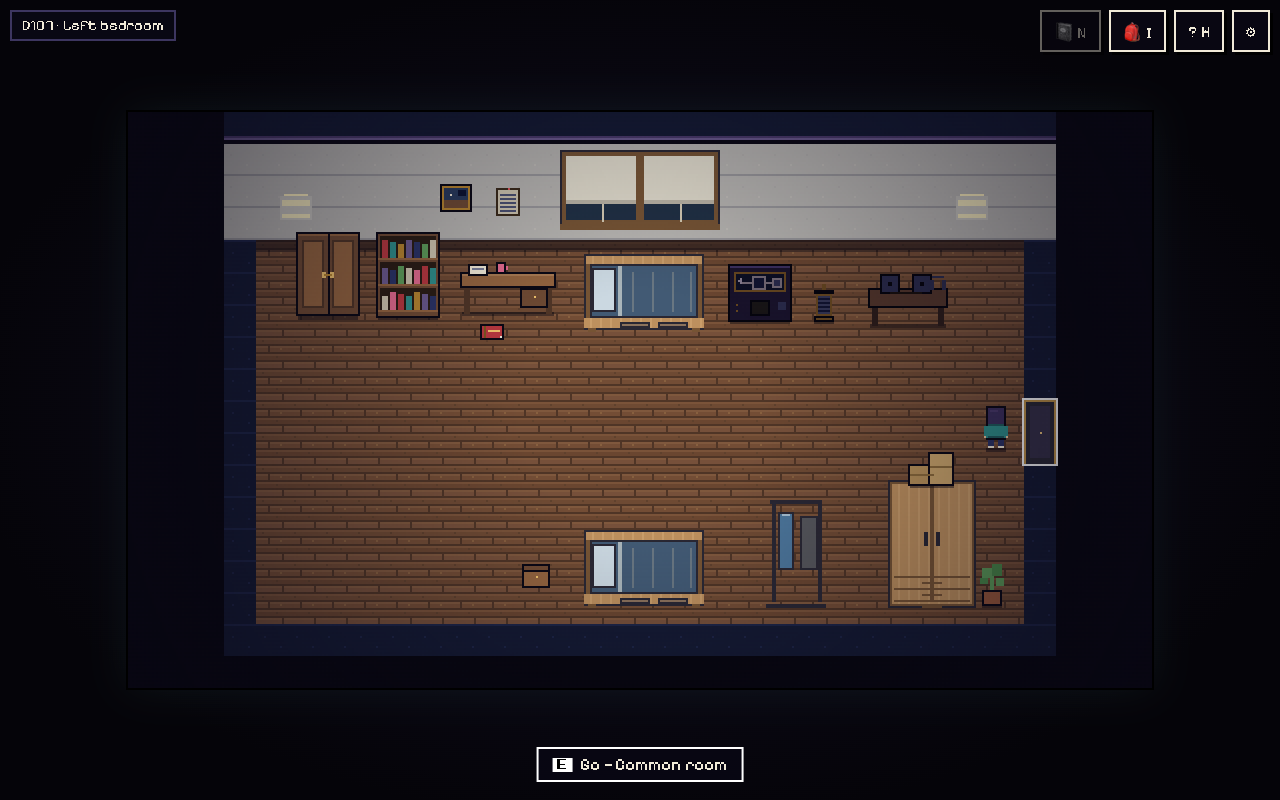
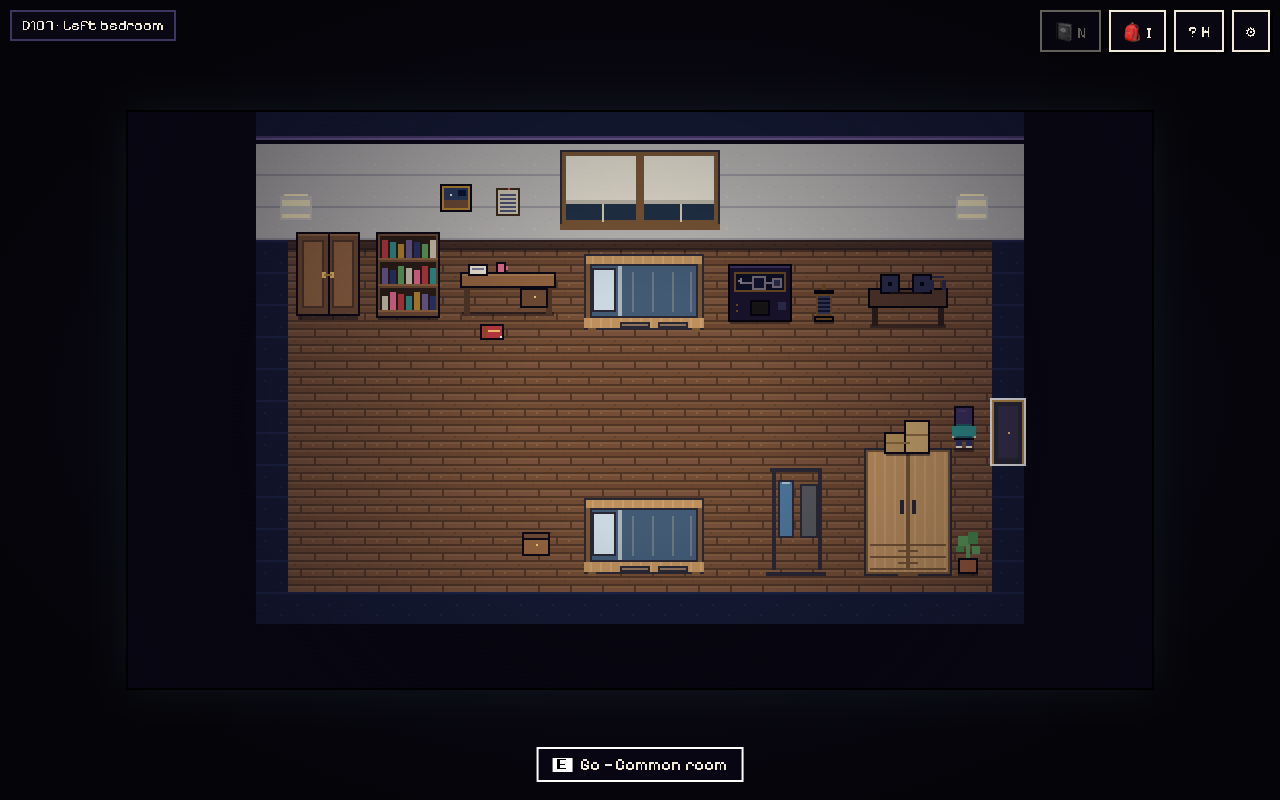
Open up common room and arrange inward-facing lounge seating

Changed region(s): [[0.1562, 0.1562, 0.8438, 0.8438]]

diff --git a/schrodingers-home/src/data/roomLayouts.ts b/schrodingers-home/src/data/roomLayouts.ts
@@ -66,65 +66,61 @@ export const ROOMS: Record<RoomId, RoomLayout> = {
     spawns: { start: [256, 236], rewind: [256, 236], fromCommon: [256, 72], center: [256, 180] },
   },
   common: {
-    id: 'common', name: 'D107 · Common room', floor: 'tile.floor.wood', floorRect: [4, 4, 24, 12], darkness: 0.42,
+    id: 'common', name: 'D107 · Common room', floor: 'tile.floor.wood', floorRect: [2, 3, 28, 14], darkness: 0.42,
     rugs: [],
-    gaps: [['top', 394, 426], ['bottom', 240, 272], ['left', 144, 176], ['right', 144, 176]],
+    gaps: [['top', 424, 456], ['bottom', 240, 272], ['left', 144, 176], ['right', 144, 176]],
     objects: [
-      { id: 'dorm.desk.4', asset: 'dorm.desk', x: 404, y: 108, layer: 'y', solid: [64, 12], decor: true },
-      { id: 'dorm.chair.4', asset: 'dorm.chair', x: 404, y: 140, layer: 'y', solid: [20, 8], decor: true },
-      { id: 'dorm.couch.2', asset: 'dorm.couch', x: 284, y: 114, layer: 'y', solid: [48, 14], decor: true },
-      { id: 'dorm.couch.3', asset: 'dorm.couch', x: 198, y: 156, layer: 'y', solid: [48, 14], decor: true },
+      { id: 'dorm.desk.4', asset: 'dorm.desk', x: 432, y: 112, layer: 'y', solid: [64, 18], decor: true },
+      { id: 'dorm.couch.2', asset: 'dorm.couch.faceRight', x: 202, y: 166, layer: 'y', solid: [24, 40], decor: true },
+      { id: 'dorm.couch.3', asset: 'dorm.couch.faceLeft', x: 310, y: 166, layer: 'y', solid: [24, 40], decor: true },
       { id: 'dorm.led', asset: 'dorm.led', x: 256, y: 23, layer: 'wall', decor: true },
-      { id: 'dorm.collage', asset: 'dorm.collage', x: 120, y: 56, layer: 'wall', decor: true },
-      { id: 'dorm.whiteboard', asset: 'dorm.whiteboard', x: 348, y: 58, layer: 'wall', decor: true },
-      { id: 'dorm.dino', asset: 'dorm.dino', x: 364, y: 198, layer: 'y', decor: true, depthBias: 70 },
-      { id: 'dorm.desk.1', asset: 'dorm.desk', x: 108, y: 108, layer: 'y', solid: [64, 12], decor: true },
-      { id: 'dorm.desk.2', asset: 'dorm.desk', x: 108, y: 242, layer: 'y', solid: [64, 12], decor: true },
-      { id: 'dorm.desk.3', asset: 'dorm.desk', x: 404, y: 242, layer: 'y', solid: [64, 12], decor: true },
-      { id: 'dorm.chair.1', asset: 'dorm.chair', x: 108, y: 140, layer: 'y', solid: [20, 8], decor: true },
-      { id: 'dorm.chair.2', asset: 'dorm.chair', x: 108, y: 206, layer: 'y', solid: [20, 8], decor: true },
-      { id: 'dorm.chair.3', asset: 'dorm.chair', x: 404, y: 206, layer: 'y', solid: [20, 8], decor: true },
-      { id: 'door.common.north', x: 410, y: 64, layer: 'wall', hit: [32, 44], reach: 26 },
-      { id: 'door.common.south', x: 256, y: 272, layer: 'wall', hit: [32, 16], reach: 22 },
-      { id: 'door.common.west', x: 56, y: 176, layer: 'wall', hit: [16, 32], reach: 20 },
-      { id: 'door.common.east', x: 456, y: 176, layer: 'wall', hit: [16, 32], reach: 20 },
-      { id: 'window', x: 256, y: 64, layer: 'wall', hit: [120, 38], reach: 34 },
-      { id: 'clock', x: 176, y: 52, layer: 'wall', hit: [18, 18], reach: 34 },
-      { id: 'radiator', x: 256, y: 82, layer: 'y', solid: [32, 10], hit: [32, 20] },
-      { id: 'sink', x: 336, y: 242, layer: 'y', hit: [32, 24], reach: 24 },
-      { id: 'trash', x: 360, y: 128, layer: 'y', solid: [12, 8], hit: [16, 20] },
-      { id: 'deco.fridge', asset: 'deco.fridge', x: 324, y: 110, layer: 'y', solid: [20, 12], decor: true },
-      { id: 'gramophone', x: 256, y: 200, layer: 'y', solid: [28, 14], hit: [30, 30], hitOffsetY: -10 },
-      { id: 'hatch', x: 256, y: 196, layer: 'y', hit: [18, 10], depthBias: 2, reach: 26 },
-      { id: 'lever', x: 286, y: 200, layer: 'y', solid: [6, 6], hit: [10, 20] },
-      { id: 'sleeves', x: 222, y: 200, layer: 'y', solid: [18, 8], hit: [20, 24] },
-      { id: 'couch', x: 228, y: 114, layer: 'y', solid: [48, 14], hit: [48, 28] },
-      { id: 'lamp', x: 182, y: 206, layer: 'y', solid: [14, 8], hit: [16, 28] },
-      { id: 'deco.table', asset: 'dorm.ottoman', x: 256, y: 144, layer: 'y', solid: [32, 8], decor: true },
-      { id: 'deco.armchair', asset: 'dorm.recliner', x: 318, y: 156, layer: 'y', solid: [24, 12], decor: true },
-      { id: 'deco.plant', asset: 'deco.plant', x: 156, y: 110, layer: 'y', solid: [10, 6], decor: true },
+      { id: 'dorm.collage', asset: 'dorm.collage', x: 112, y: 44, layer: 'wall', decor: true },
+      { id: 'dorm.whiteboard', asset: 'dorm.whiteboard', x: 360, y: 44, layer: 'wall', decor: true },
+      { id: 'dorm.dino', asset: 'dorm.dino', x: 370, y: 198, layer: 'y', decor: true, depthBias: 70 },
+      { id: 'dorm.desk.1', asset: 'dorm.desk', x: 80, y: 112, layer: 'y', solid: [64, 18], decor: true },
+      { id: 'dorm.desk.2', asset: 'dorm.desk', x: 80, y: 260, layer: 'y', solid: [64, 18], decor: true },
+      { id: 'dorm.desk.3', asset: 'dorm.desk', x: 432, y: 260, layer: 'y', solid: [64, 18], decor: true },
+      { id: 'door.common.north', x: 440, y: 48, layer: 'wall', hit: [32, 44], reach: 26 },
+      { id: 'door.common.south', x: 256, y: 288, layer: 'wall', hit: [32, 16], reach: 22 },
+      { id: 'door.common.west', x: 24, y: 176, layer: 'wall', hit: [16, 32], reach: 20 },
+      { id: 'door.common.east', x: 488, y: 176, layer: 'wall', hit: [16, 32], reach: 20 },
+      { id: 'window', x: 256, y: 48, layer: 'wall', hit: [120, 38], reach: 34 },
+      { id: 'clock', x: 176, y: 40, layer: 'wall', hit: [18, 18], reach: 34 },
+      { id: 'radiator', x: 256, y: 70, layer: 'y', solid: [32, 10], hit: [32, 20] },
+      { id: 'sink', x: 350, y: 254, layer: 'y', hit: [32, 24], reach: 24 },
+      { id: 'trash', x: 412, y: 152, layer: 'y', solid: [12, 8], hit: [16, 20] },
+      { id: 'deco.fridge', asset: 'deco.fridge', x: 370, y: 110, layer: 'y', solid: [20, 12], decor: true },
+      { id: 'gramophone', x: 256, y: 246, layer: 'y', solid: [28, 14], hit: [30, 30], hitOffsetY: -10 },
+      { id: 'hatch', x: 256, y: 242, layer: 'y', hit: [18, 10], depthBias: 2, reach: 26 },
+      { id: 'lever', x: 286, y: 246, layer: 'y', solid: [6, 6], hit: [10, 20] },
+      { id: 'sleeves', x: 222, y: 246, layer: 'y', solid: [18, 8], hit: [20, 24] },
+      { id: 'couch', x: 256, y: 114, layer: 'y', solid: [48, 14], hit: [48, 28] },
+      { id: 'lamp', x: 166, y: 246, layer: 'y', solid: [14, 8], hit: [16, 28] },
+      { id: 'deco.table', asset: 'dorm.ottoman', x: 256, y: 154, layer: 'y', solid: [32, 8], decor: true },
+      { id: 'deco.armchair', asset: 'dorm.recliner', x: 256, y: 198, layer: 'y', solid: [24, 12], decor: true },
+      { id: 'deco.plant', asset: 'deco.plant', x: 138, y: 108, layer: 'y', solid: [10, 6], decor: true },
     ],
     doors: [
-      { id: 'door.common.north', rect: [394, 40, 32, 18] },
-      { id: 'door.common.south', rect: [240, 260, 32, 14] },
-      { id: 'door.common.west', rect: [48, 144, 12, 32] },
-      { id: 'door.common.east', rect: [448, 144, 12, 32] },
+      { id: 'door.common.north', rect: [424, 24, 32, 18] },
+      { id: 'door.common.south', rect: [240, 276, 32, 14] },
+      { id: 'door.common.west', rect: [16, 144, 12, 32] },
+      { id: 'door.common.east', rect: [480, 144, 12, 32] },
     ],
-    spawns: { fromFoyer: [256, 244], fromLeft: [76, 170], fromRight: [436, 170], fromVault: [436, 84], center: [256, 224] },
+    spawns: { fromFoyer: [256, 264], fromLeft: [48, 170], fromRight: [464, 170], fromVault: [472, 72], center: [256, 218] },
   },
   left: {
-    id: 'left', name: 'D107 · Left bedroom', floor: 'tile.floor.wood', floorRect: [4, 4, 24, 12], darkness: 0.48,
+    id: 'left', name: 'D107 · Left bedroom', floor: 'tile.floor.wood', floorRect: [5, 4, 22, 11], darkness: 0.48,
     rugs: [],
     gaps: [['right', 144, 176]],
     objects: [
       { id: 'dorm.secondBed', asset: 'dorm.bed.blue', x: 258, y: 110, layer: 'y', solid: [56, 32], decor: true },
-      { id: 'dorm.wardrobe', asset: 'dorm.wardrobe', x: 402, y: 248, layer: 'y', solid: [42, 18], decor: true },
+      { id: 'dorm.wardrobe', asset: 'dorm.wardrobe', x: 390, y: 232, layer: 'y', solid: [42, 18], decor: true },
       { id: 'dorm.blinds', asset: 'dorm.blinds', x: 256, y: 59, layer: 'wall', decor: true },
       { id: 'dorm.sconce.1', asset: 'dorm.sconce', x: 84, y: 55, layer: 'wall', decor: true },
       { id: 'dorm.sconce.2', asset: 'dorm.sconce', x: 422, y: 55, layer: 'wall', decor: true },
-      { id: 'dorm.rack', asset: 'dorm.rack', x: 334, y: 248, layer: 'y', decor: true },
-      { id: 'dorm.storage', asset: 'deco.boxes', x: 402, y: 188, layer: 'y', decor: true, depthBias: 60 },
-      { id: 'door.left.east', x: 456, y: 176, layer: 'wall', hit: [16, 32], reach: 20 },
+      { id: 'dorm.rack', asset: 'dorm.rack', x: 334, y: 232, layer: 'y', decor: true },
+      { id: 'dorm.storage', asset: 'deco.boxes', x: 390, y: 172, layer: 'y', decor: true, depthBias: 60 },
+      { id: 'door.left.east', x: 440, y: 176, layer: 'wall', hit: [16, 32], reach: 20 },
       { id: 'closet', x: 100, y: 104, layer: 'y', solid: [32, 16], hit: [32, 44] },
       { id: 'bookshelf', x: 140, y: 104, layer: 'y', solid: [32, 14], hit: [32, 44] },
       { id: 'pickup.prism', x: 148, y: 86, layer: 'y', hit: [16, 16], depthBias: 30, reach: 30 },
@@ -136,27 +132,27 @@ export const ROOMS: Record<RoomId, RoomLayout> = {
       { id: 'cabinet', x: 316, y: 106, layer: 'y', solid: [30, 12], hit: [32, 32] },
       { id: 'lantern', x: 348, y: 106, layer: 'y', solid: [10, 6], hit: [14, 20] },
       { id: 'listening', x: 390, y: 108, layer: 'y', solid: [40, 12], hit: [40, 30] },
-      { id: 'bed.left', x: 258, y: 248, layer: 'y', solid: [56, 32], hit: [60, 40] },
-      { id: 'bedsideBox', x: 204, y: 238, layer: 'y', solid: [14, 8], hit: [14, 12] },
-      { id: 'pickup.key', x: 204, y: 228, layer: 'y', hit: [16, 14], depthBias: 20, reach: 28 },
-      { id: 'deco.plant', asset: 'deco.plant', x: 432, y: 248, layer: 'y', solid: [10, 6], decor: true },
+      { id: 'bed.left', x: 258, y: 232, layer: 'y', solid: [56, 32], hit: [60, 40] },
+      { id: 'bedsideBox', x: 204, y: 222, layer: 'y', solid: [14, 8], hit: [14, 12] },
+      { id: 'pickup.key', x: 204, y: 212, layer: 'y', hit: [16, 14], depthBias: 20, reach: 28 },
+      { id: 'deco.plant', asset: 'deco.plant', x: 420, y: 232, layer: 'y', solid: [10, 6], decor: true },
     ],
-    doors: [{ id: 'door.left.east', rect: [448, 144, 12, 32] }],
-    spawns: { fromCommon: [434, 170], center: [256, 178] },
+    doors: [{ id: 'door.left.east', rect: [432, 144, 12, 32] }],
+    spawns: { fromCommon: [418, 170], center: [256, 178] },
   },
   right: {
-    id: 'right', name: 'D107 · Right bedroom', floor: 'tile.floor.wood', floorRect: [4, 4, 24, 12], darkness: 0.48,
+    id: 'right', name: 'D107 · Right bedroom', floor: 'tile.floor.wood', floorRect: [5, 4, 22, 11], darkness: 0.48,
     rugs: [],
     gaps: [['left', 144, 176]],
     objects: [
       { id: 'dorm.secondBed', asset: 'dorm.bed.sage.horizontal', x: 258, y: 110, layer: 'y', solid: [56, 32], decor: true },
-      { id: 'dorm.wardrobe', asset: 'dorm.wardrobe', x: 106, y: 248, layer: 'y', solid: [42, 18], decor: true },
+      { id: 'dorm.wardrobe', asset: 'dorm.wardrobe', x: 110, y: 232, layer: 'y', solid: [42, 18], decor: true },
       { id: 'dorm.blinds', asset: 'dorm.blinds', x: 256, y: 59, layer: 'wall', decor: true },
       { id: 'dorm.sconce.1', asset: 'dorm.sconce', x: 84, y: 55, layer: 'wall', decor: true },
       { id: 'dorm.sconce.2', asset: 'dorm.sconce', x: 422, y: 55, layer: 'wall', decor: true },
-      { id: 'dorm.rack', asset: 'dorm.rack', x: 190, y: 246, layer: 'y', decor: true },
-      { id: 'dorm.storage', asset: 'deco.boxes', x: 106, y: 188, layer: 'y', decor: true, depthBias: 60 },
-      { id: 'door.right.west', x: 56, y: 176, layer: 'wall', hit: [16, 32], reach: 20 },
+      { id: 'dorm.rack', asset: 'dorm.rack', x: 190, y: 230, layer: 'y', decor: true },
+      { id: 'dorm.storage', asset: 'deco.boxes', x: 110, y: 172, layer: 'y', decor: true, depthBias: 60 },
+      { id: 'door.right.west', x: 72, y: 176, layer: 'wall', hit: [16, 32], reach: 20 },
       { id: 'metronome', x: 96, y: 108, layer: 'y', solid: [10, 6], hit: [14, 20] },
       { id: 'mirror', x: 156, y: 118, layer: 'y', solid: [34, 12], hit: [36, 36] },
       { id: 'sticky', x: 164, y: 46, layer: 'wall', hit: [12, 12], reach: 44 },
@@ -166,12 +162,12 @@ export const ROOMS: Record<RoomId, RoomLayout> = {
       { id: 'projector', x: 292, y: 160, layer: 'y', solid: [18, 8], hit: [20, 20] },
       { id: 'dresser', x: 374, y: 104, layer: 'y', solid: [32, 12], hit: [32, 30] },
       { id: 'pickup.cassette', x: 374, y: 82, layer: 'y', hit: [16, 16], depthBias: 30, reach: 30 },
-      { id: 'toaster', x: 428, y: 106, layer: 'y', solid: [24, 8], hit: [24, 28] },
-      { id: 'bed.right', x: 420, y: 232, layer: 'y', solid: [40, 54], hit: [40, 60] },
-      { id: 'deco.plant', asset: 'deco.plant', x: 228, y: 248, layer: 'y', solid: [10, 6], decor: true },
+      { id: 'toaster', x: 416, y: 106, layer: 'y', solid: [24, 8], hit: [24, 28] },
+      { id: 'bed.right', x: 408, y: 232, layer: 'y', solid: [40, 54], hit: [40, 60] },
+      { id: 'deco.plant', asset: 'deco.plant', x: 228, y: 232, layer: 'y', solid: [10, 6], decor: true },
     ],
-    doors: [{ id: 'door.right.west', rect: [48, 144, 12, 32] }],
-    spawns: { fromCommon: [78, 170], center: [256, 178] },
+    doors: [{ id: 'door.right.west', rect: [64, 144, 12, 32] }],
+    spawns: { fromCommon: [94, 170], center: [256, 178] },
   },
   vault: {
     id: 'vault', name: 'Vault room', floor: 'tile.floor.vault', floorRect: [8, 3, 16, 14], darkness: 0.6,

diff --git a/schrodingers-home/src/assets/dorm.ts b/schrodingers-home/src/assets/dorm.ts
@@ -45,11 +45,22 @@ export const bayWindow:Drawer = (g,w,h) => {
   box(g,55,16,19,13,'#cec4be');box(g,59,20,11,6,'#8a4a4d');
   r(g,60,26,10,1,'#cd795d');for(let x=61;x<70;x+=3)r(g,x,27,1,7,'#d8d2c7');
 };
+/** Back rests on the outside of the lounge; cushions face the ottoman. */
+const verticalCouch = (faceLeft:boolean):Drawer => (g) => {
+  g.save();
+  if(faceLeft){g.translate(28,0);g.scale(-1,1);}
+  box(g,2,1,24,45,'#687578');
+  box(g,1,2,9,43,'#929b9b');
+  for(const y of [8,19,30]) box(g,11,y,13,11,'#879293');
+  box(g,2,0,24,7,'#7e8889');box(g,2,41,24,7,'#7e8889');
+  r(g,4,46,3,2,edge);r(g,22,46,3,2,edge);
+  g.restore();
+};
 export const DORM:Record<string,Drawer> = {
   'dorm.led':(g,w)=>{r(g,0,2,w,4,'#8a8dbc');r(g,0,3,w,1,'#c3c7ef');for(let x=2;x<w;x+=6)r(g,x,2,2,2,'#f3f1ff');},
   'dorm.collage':(g)=>{for(let i=0;i<23;i++){const x=(i*17)%77,y=(i%3)*9;box(g,x,y,7,8,['#a8a6b8','#6a7b82','#b18a82','#d5b9a1'][i%4]);r(g,x+2,y+2,3,3,'#e1cec2');}},
   'dorm.whiteboard':(g)=>{box(g,0,0,50,28,'#dfdfd7');for(let y=6;y<23;y+=4)r(g,5,y,18+(y%7),1,'#7f8994');r(g,31,9,10,1,'#ad665e');r(g,37,6,1,12,'#ad665e');r(g,7,26,35,2,'#7a7d82');},
-  'dorm.desk':(g)=>{grain(g,0,10,64,10);r(g,0,10,64,1,'#e7c697');box(g,3,20,17,14,'#ad865c');r(g,6,25,11,1,edge);r(g,6,30,11,1,edge);r(g,58,20,3,14,edge);box(g,24,4,21,12,'#454953');r(g,26,6,17,7,'#808b9e');r(g,23,17,24,2,'#484852');box(g,5,5,9,6,'#ede4ce');r(g,51,6,4,7,'#a96762');r(g,52,4,2,2,'#e2dfd3');},
+  'dorm.desk':(g)=>{box(g,25,22,22,12,'#6b7578');r(g,28,25,16,7,'#969d9b');r(g,34,34,2,3,ink);r(g,28,37,14,1,ink);grain(g,0,10,64,10);r(g,0,10,64,1,'#e7c697');box(g,3,20,17,14,'#ad865c');r(g,6,25,11,1,edge);r(g,6,30,11,1,edge);r(g,58,20,3,14,edge);box(g,24,4,21,12,'#454953');r(g,26,6,17,7,'#808b9e');r(g,23,17,24,2,'#484852');box(g,5,5,9,6,'#ede4ce');r(g,51,6,4,7,'#a96762');r(g,52,4,2,2,'#e2dfd3');},
   'dorm.chair':(g)=>{box(g,3,0,18,18,'#7d8587');r(g,5,2,14,13,'#969d9b');box(g,1,15,22,8,'#6b7578');r(g,11,23,2,4,ink);r(g,4,27,16,1,ink);},
   'dorm.couch':(g)=>{
     box(g,0,4,48,22,'#687578'); box(g,1,1,46,10,'#929b9b');
@@ -57,6 +68,8 @@ export const DORM:Record<string,Drawer> = {
     for(const x of [7,19,30]) box(g,x,12,12,10,'#879293');
     r(g,3,26,3,2,edge);r(g,42,26,3,2,edge);
   },
+  'dorm.couch.faceRight':verticalCouch(false),
+  'dorm.couch.faceLeft':verticalCouch(true),
   'dorm.recliner':(g)=>{
     box(g,2,0,20,17,'#878c87'); box(g,0,7,6,17,'#6b756f');
     box(g,18,7,6,17,'#6b756f');box(g,6,15,12,9,'#9ba29a');

diff --git a/schrodingers-home/tests/rooms.test.ts b/schrodingers-home/tests/rooms.test.ts
@@ -38,14 +38,11 @@ describe('photo-referenced room circulation', () => {
   }
 });
 
-it('main rooms have about a third less floor area and horizontal left beds', () => {
-  for (const id of ['common','left','right'] as const) {
-    const [, ,w,h] = ROOMS[id].floorRect;
-    expect(1-w*h/(30*14)).toBeCloseTo(0.3143, 3);
-  }
-  for (const id of ['bed.left','dorm.secondBed']) {
-    const bed = ROOMS.left.objects.find(o=>o.id===id)!;
-    expect(bed.solid![0]).toBeGreaterThan(bed.solid![1]);
+it('common room has substantially more floor space than the compact bedrooms', () => {
+  const area = (id: 'common'|'left'|'right') => ROOMS[id].floorRect[2]*ROOMS[id].floorRect[3];
+  for (const id of ['left','right'] as const) {
+    expect(area('common')/area(id)).toBeGreaterThan(1.6);
+    expect(area(id)).toBeLessThan(24*12);
   }
 });
 
@@ -81,8 +78,14 @@ describe('visible furniture spacing', () => {
     expect(sideRight.x).toBeGreaterThan(400);
     const desks=ROOMS.common.objects.filter(o=>o.asset==='dorm.desk');
     expect(desks).toHaveLength(4);
+    expect(ROOMS.common.objects.some(o=>o.id.startsWith('dorm.chair.'))).toBe(false);
+    const facing=ROOMS.common.objects.filter(o=>o.id.startsWith('dorm.couch.'));
+    expect(facing.map(o=>o.asset)).toEqual(['dorm.couch.faceRight','dorm.couch.faceLeft']);
+    expect(facing[0].x).toBeLessThan(256);
+    expect(facing[1].x).toBeGreaterThan(256);
+    expect(facing[0].y).toBe(facing[1].y);
     expect(new Set(desks.map(o=>`${o.x<256?'left':'right'}-${o.y<160?'top':'bottom'}`)).size).toBe(4);
-    expect(ROOMS.common.objects.filter(o=>o.id==='couch'||o.asset==='dorm.couch')).toHaveLength(3);
+    expect(ROOMS.common.objects.filter(o=>o.id==='couch'||o.id.startsWith('dorm.couch.'))).toHaveLength(3);
     expect(ROOMS.common.objects.filter(o=>o.asset==='dorm.recliner')).toHaveLength(1);
   });
 });

diff --git a/schrodingers-home/src/assets/manifest.ts b/schrodingers-home/src/assets/manifest.ts
@@ -135,9 +135,9 @@ deco('deco.armchair', 'armchair', 24, 24, 'Armchair');
 // Photo-referenced dorm furniture, drawn locally at native pixel resolution.
 for (const [id, w, h] of [
   ['led', 384, 8], ['collage', 84, 30], ['whiteboard', 50, 28],
-  ['dino', 40, 64], ['desk', 64, 34], ['chair', 24, 28],
+  ['dino', 40, 64], ['desk', 64, 38], ['chair', 24, 28],
   ['ottoman', 30, 24], ['wardrobe', 44, 64], ['blinds', 80, 40],
-  ['sconce', 18, 14], ['rack', 30, 54], ['bed.blue', 60, 40], ['bed.sage', 40, 60], ['bed.sage.horizontal', 60, 40], ['couch', 48, 28], ['recliner', 24, 32],
+  ['sconce', 18, 14], ['rack', 30, 54], ['bed.blue', 60, 40], ['bed.sage', 40, 60], ['bed.sage.horizontal', 60, 40], ['couch', 48, 28], ['couch.faceRight', 28, 48], ['couch.faceLeft', 28, 48], ['recliner', 24, 32],
 ] as const) deco(`dorm.${id}`, `dorm_${id}`, w, h, `D107 reference: ${id}`);
 
 // Items (16x16 icons, also used for world pickups)

diff --git a/schrodingers-home/ART_REPLACEMENT_GUIDE.md b/schrodingers-home/ART_REPLACEMENT_GUIDE.md
@@ -187,7 +187,7 @@ Regenerate this table at any time with `npx tsx scripts/asset-table.ts`.
 | `dorm.collage` | decor | `public/assets/sprites/objects/dorm_collage.png` | 84×30 | 0.5, 1 | D107 reference: collage |
 | `dorm.whiteboard` | decor | `public/assets/sprites/objects/dorm_whiteboard.png` | 50×28 | 0.5, 1 | D107 reference: whiteboard |
 | `dorm.dino` | decor | `public/assets/sprites/objects/dorm_dino.png` | 40×64 | 0.5, 1 | D107 reference: dino |
-| `dorm.desk` | decor | `public/assets/sprites/objects/dorm_desk.png` | 64×34 | 0.5, 1 | D107 reference: desk |
+| `dorm.desk` | decor | `public/assets/sprites/objects/dorm_desk.png` | 64×38 | 0.5, 1 | D107 reference: desk |
 | `dorm.chair` | decor | `public/assets/sprites/objects/dorm_chair.png` | 24×28 | 0.5, 1 | D107 reference: chair |
 | `dorm.ottoman` | decor | `public/assets/sprites/objects/dorm_ottoman.png` | 30×24 | 0.5, 1 | D107 reference: ottoman |
 | `dorm.wardrobe` | decor | `public/assets/sprites/objects/dorm_wardrobe.png` | 44×64 | 0.5, 1 | D107 reference: wardrobe |
@@ -198,6 +198,8 @@ Regenerate this table at any time with `npx tsx scripts/asset-table.ts`.
 | `dorm.bed.sage` | decor | `public/assets/sprites/objects/dorm_bed.sage.png` | 40×60 | 0.5, 1 | D107 reference: bed.sage |
 | `dorm.bed.sage.horizontal` | decor | `public/assets/sprites/objects/dorm_bed.sage.horizontal.png` | 60×40 | 0.5, 1 | D107 reference: bed.sage.horizontal |
 | `dorm.couch` | decor | `public/assets/sprites/objects/dorm_couch.png` | 48×28 | 0.5, 1 | D107 reference: couch |
+| `dorm.couch.faceRight` | decor | `public/assets/sprites/objects/dorm_couch.faceRight.png` | 28×48 | 0.5, 1 | D107 reference: couch.faceRight |
+| `dorm.couch.faceLeft` | decor | `public/assets/sprites/objects/dorm_couch.faceLeft.png` | 28×48 | 0.5, 1 | D107 reference: couch.faceLeft |
 | `dorm.recliner` | decor | `public/assets/sprites/objects/dorm_recliner.png` | 24×32 | 0.5, 1 | D107 reference: recliner |
 | `item.prism` | item | `public/assets/sprites/items/prism.png` | 16×16 | 0.5, 1 | Small glass prism |
 | `item.cassette` | item | `public/assets/sprites/items/cassette.png` | 16×16 | 0.5, 1 | Red cassette tape |

diff --git a/schrodingers-home/README.md b/schrodingers-home/README.md
@@ -176,15 +176,18 @@ The white hover outline is generated from whatever texture is loaded, so replace
 
 The three main rooms now use the supplied suite photographs: pale dorm walls,
 wood floors, four-pane bay window and mini hoop, LED strip, photo collage,
-whiteboard, four corner desks, three couches, one recliner, red ottoman, mini fridge and green dinosaur
+whiteboard, four corner desks with tucked-in chairs, three couches, one recliner, red ottoman, mini fridge and green dinosaur
 balloon in common; two beds, wood wardrobes, roller blinds, storage and garment
 racks in each bedroom. The left room has two blue horizontal beds on opposite walls. The right has a
 sage horizontal bed at the top and a vertical bed along the far-right wall.
 
 The floor plan is rotated for the game's view: hallway below, common in the
 middle, bay window ahead, bedrooms on either side. Furniture and circulation are
-adapted to the 512×288 canvas. Each main room has a 24×12-tile floor, down from
-30×14 (31.4% less floor area), with furniture and player sizes preserved. The
+adapted to the 512×288 canvas. The common room has a 28×14-tile floor and each
+bedroom a compact 22×11 floor, making common about 62% larger. Two vertical
+sofas face each other around the ottoman, with a third couch and recliner completing
+the lounge. Chairs are part of the desk sprites to keep circulation clear. Furniture
+and player sizes are preserved. The
 address-7 sensor is now a sealed/spilled juice bottle on the floor, with an orange stain in the spilled state. The vault door and quantum gadgets remain
 fictional gameplay additions. Original photos and resident names are not bundled;
 furniture is drawn as original pixel art in `src/assets/dorm.ts`.
